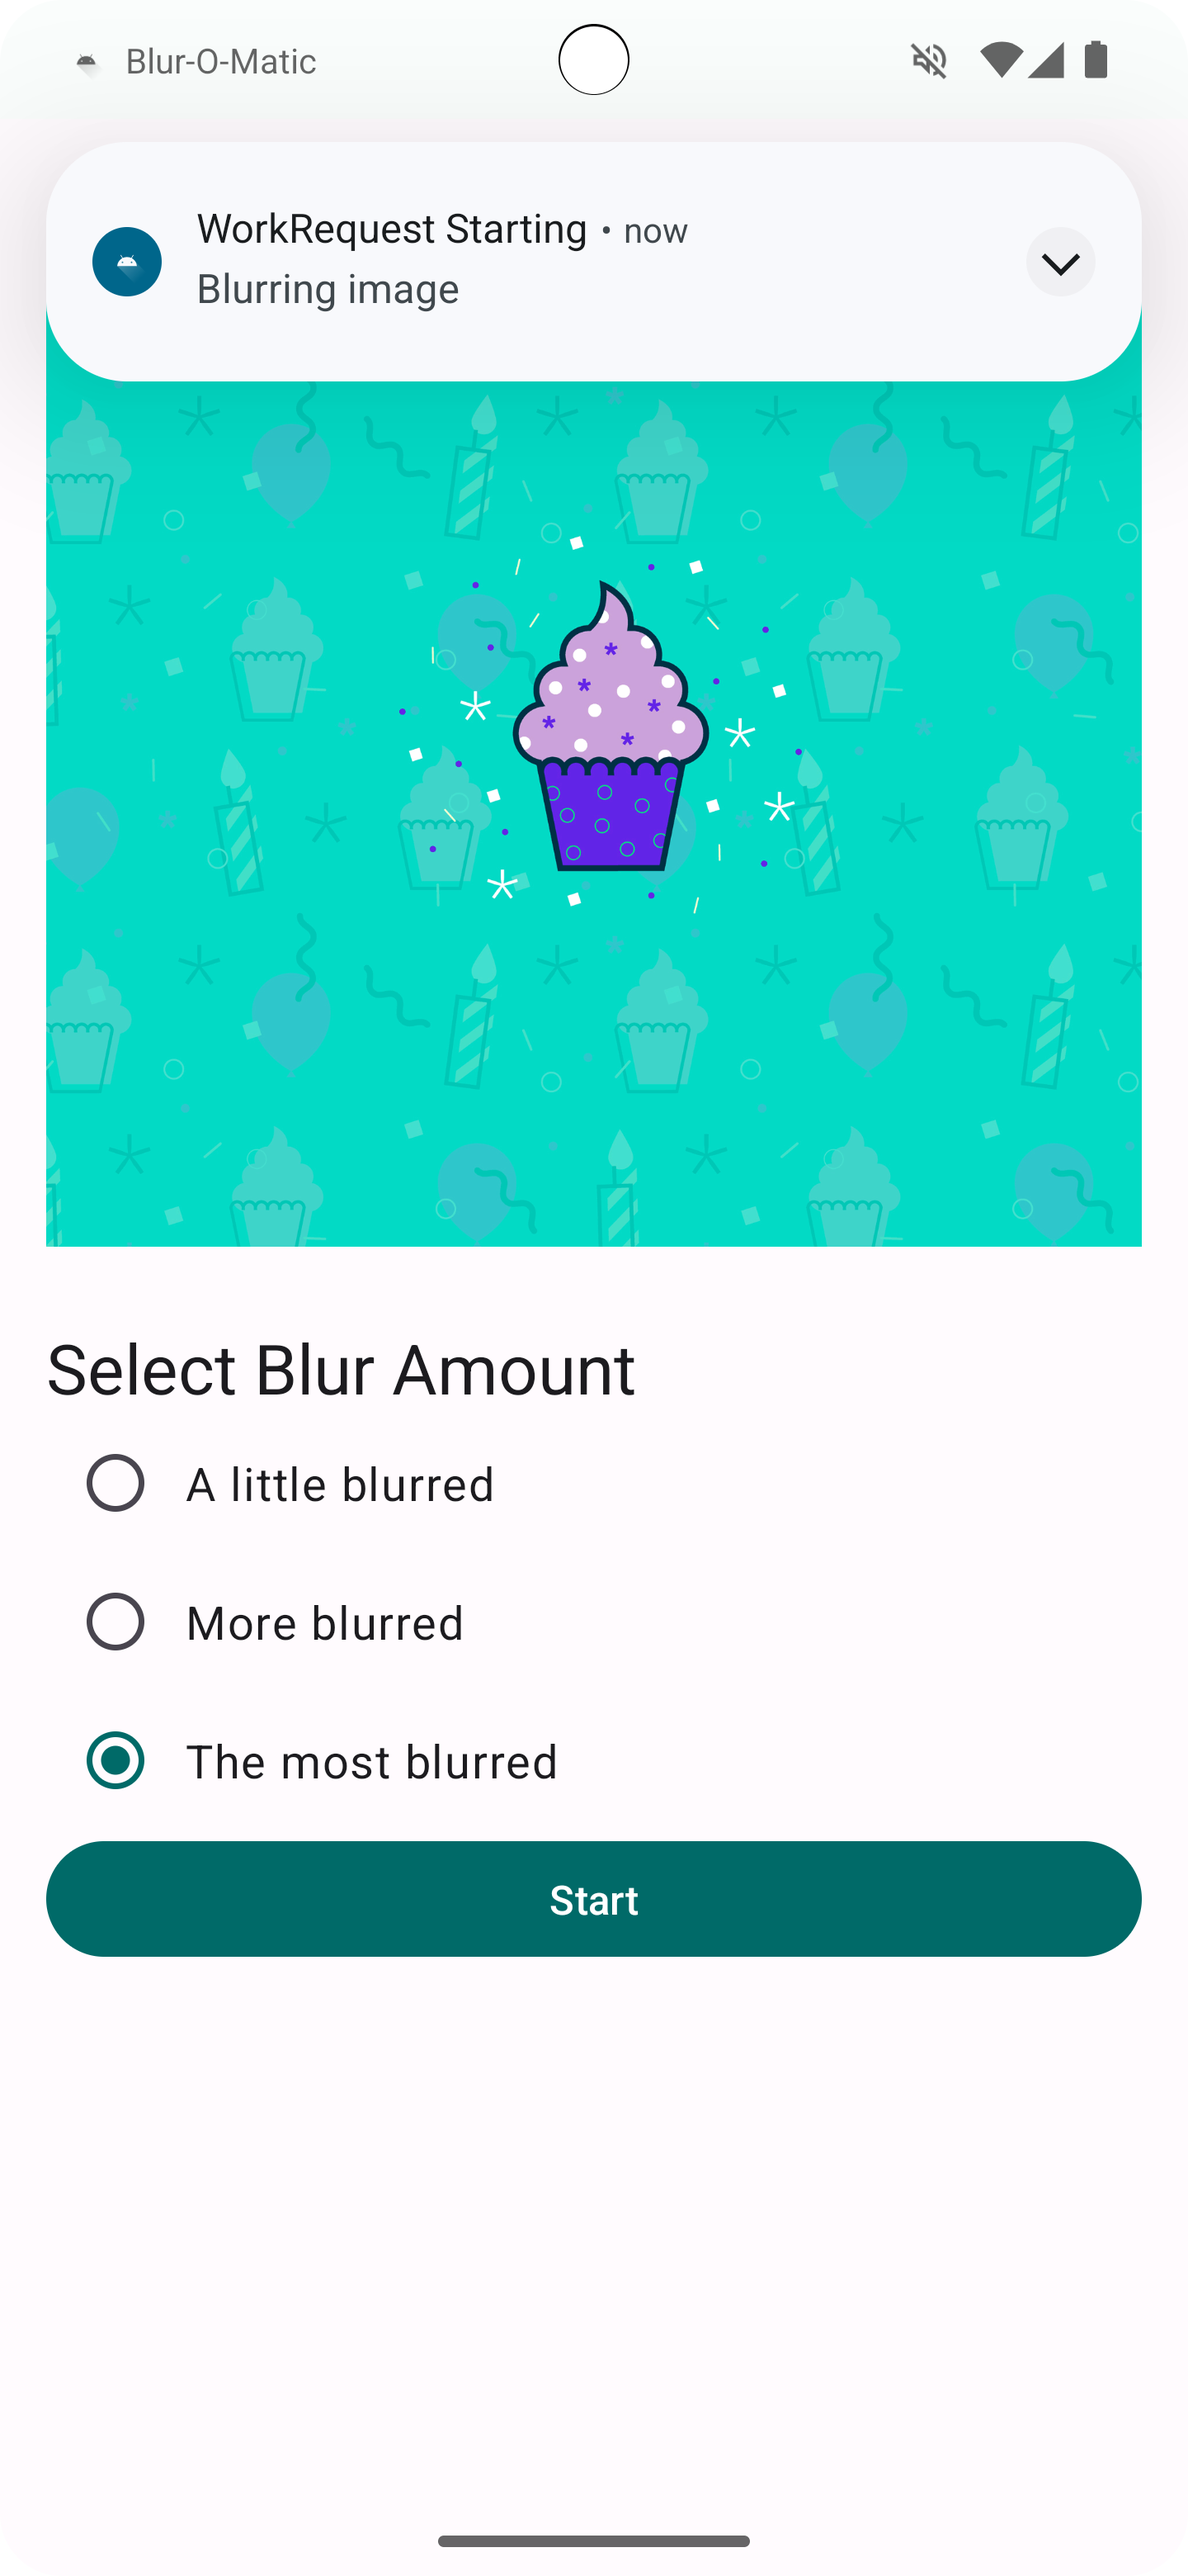
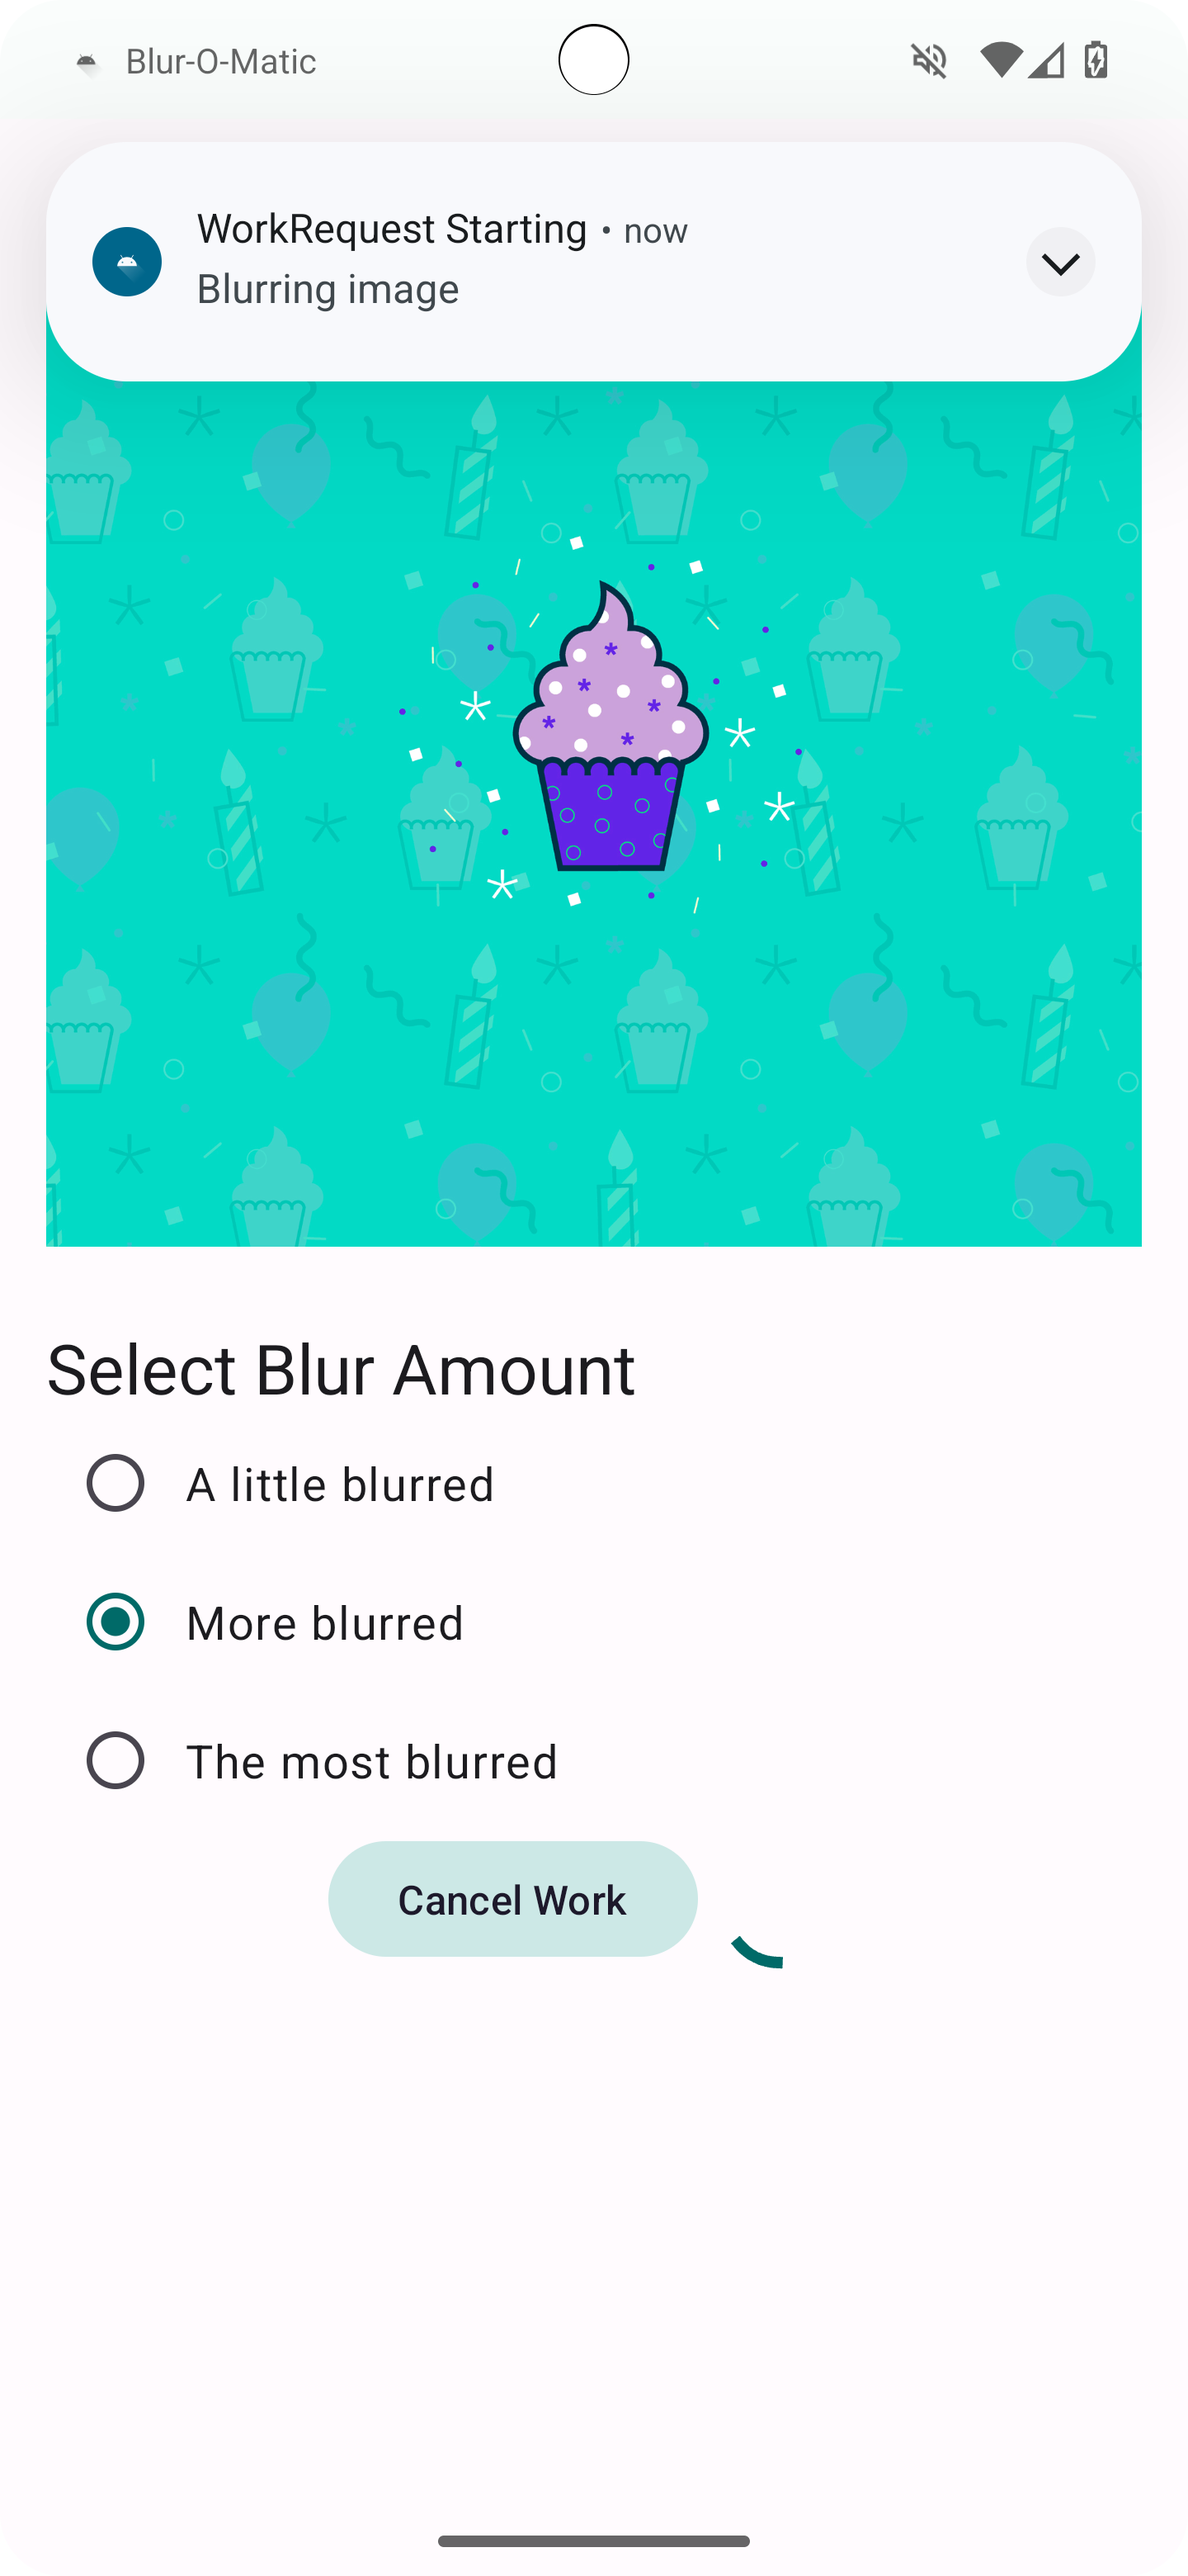
Add cancel worker function, worker constraints, image preview, and test cases

Changed region(s): [[0.0312, 0.6218, 0.9688, 0.7772], [0.9062, 0.0, 0.9375, 0.0311]]

diff --git a/app/src/main/java/com/example/bluromatic/ui/BluromaticScreen.kt b/app/src/main/java/com/example/bluromatic/ui/BluromaticScreen.kt
@@ -23,6 +23,7 @@ import androidx.compose.foundation.Image
 import androidx.compose.foundation.layout.Arrangement
 import androidx.compose.foundation.layout.Column
 import androidx.compose.foundation.layout.Row
+import androidx.compose.foundation.layout.Spacer
 import androidx.compose.foundation.layout.WindowInsets
 import androidx.compose.foundation.layout.asPaddingValues
 import androidx.compose.foundation.layout.calculateEndPadding
@@ -34,11 +35,14 @@ import androidx.compose.foundation.layout.padding
 import androidx.compose.foundation.layout.safeDrawing
 import androidx.compose.foundation.layout.size
 import androidx.compose.foundation.layout.statusBarsPadding
+import androidx.compose.foundation.layout.width
 import androidx.compose.foundation.rememberScrollState
 import androidx.compose.foundation.selection.selectable
 import androidx.compose.foundation.selection.selectableGroup
 import androidx.compose.foundation.verticalScroll
 import androidx.compose.material3.Button
+import androidx.compose.material3.CircularProgressIndicator
+import androidx.compose.material3.FilledTonalButton
 import androidx.compose.material3.MaterialTheme
 import androidx.compose.material3.RadioButton
 import androidx.compose.material3.RadioButtonDefaults
@@ -75,9 +79,11 @@ fun BluromaticScreen(blurViewModel: BlurViewModel = viewModel(factory = BlurView
             .fillMaxSize()
             .statusBarsPadding()
             .padding(
-                start = WindowInsets.safeDrawing.asPaddingValues()
+                start = WindowInsets.safeDrawing
+                    .asPaddingValues()
                     .calculateStartPadding(layoutDirection),
-                end = WindowInsets.safeDrawing.asPaddingValues()
+                end = WindowInsets.safeDrawing
+                    .asPaddingValues()
                     .calculateEndPadding(layoutDirection)
             )
     ) {
@@ -85,7 +91,7 @@ fun BluromaticScreen(blurViewModel: BlurViewModel = viewModel(factory = BlurView
             blurUiState = uiState,
             blurAmountOptions = blurViewModel.blurAmount,
             applyBlur = blurViewModel::applyBlur,
-            cancelWork = {},
+            cancelWork = blurViewModel::cancelWork,
             modifier = Modifier
                 .verticalScroll(rememberScrollState())
                 .padding(dimensionResource(R.dimen.padding_medium))
@@ -121,7 +127,9 @@ fun BluromaticScreenContent(
         BlurActions(
             blurUiState = blurUiState,
             onStartClick = { applyBlur(selectedValue) },
-            onSeeFileClick = {},
+            onSeeFileClick = { currentUri ->
+                showBlurredImage(context, currentUri)
+            },
             onCancelClick = { cancelWork() },
             modifier = Modifier.fillMaxWidth()
         )
@@ -140,11 +148,26 @@ private fun BlurActions(
         modifier = modifier,
         horizontalArrangement = Arrangement.Center
     ) {
-        Button(
-            onClick = onStartClick,
-            modifier = Modifier.fillMaxWidth()
-        ) {
-            Text(stringResource(R.string.start))
+        when (blurUiState) {
+            is BlurUiState.Default -> {
+                Button(
+                    onClick = onStartClick,
+                    modifier = Modifier.fillMaxWidth()
+                ) {
+                    Text(stringResource(R.string.start))
+                }
+            }
+            is BlurUiState.Loading -> {
+                FilledTonalButton(onCancelClick) { Text(stringResource(R.string.cancel_work)) }
+                CircularProgressIndicator(modifier = Modifier.padding(dimensionResource(R.dimen.padding_small)))
+            }
+            is BlurUiState.Complete -> {
+                Button(onStartClick) { Text(stringResource(R.string.start)) }
+                Spacer(modifier = Modifier.width(dimensionResource(R.dimen.padding_small)))
+                FilledTonalButton({ onSeeFileClick(blurUiState.outputUri) }) {
+                    Text(stringResource(R.string.see_file))
+                }
+            }
         }
     }
 }

diff --git a/app/src/main/java/com/example/bluromatic/data/WorkManagerBluromaticRepository.kt b/app/src/main/java/com/example/bluromatic/data/WorkManagerBluromaticRepository.kt
@@ -18,26 +18,35 @@ package com.example.bluromatic.data
 
 import android.content.Context
 import android.net.Uri
+import androidx.lifecycle.asFlow
+import androidx.work.Constraints
 import androidx.work.Data
+import androidx.work.ExistingWorkPolicy
 import androidx.work.OneTimeWorkRequest
 import androidx.work.OneTimeWorkRequestBuilder
 import androidx.work.WorkInfo
 import androidx.work.WorkManager
+import com.example.bluromatic.IMAGE_MANIPULATION_WORK_NAME
 import com.example.bluromatic.KEY_BLUR_LEVEL
 import com.example.bluromatic.KEY_IMAGE_URI
+import com.example.bluromatic.TAG_OUTPUT
 import com.example.bluromatic.getImageUri
 import com.example.bluromatic.workers.BlurWorker
 import com.example.bluromatic.workers.CleanupWorker
 import com.example.bluromatic.workers.SaveImageToFileWorker
 import kotlinx.coroutines.flow.Flow
 import kotlinx.coroutines.flow.MutableStateFlow
+import kotlinx.coroutines.flow.mapNotNull
 
 class WorkManagerBluromaticRepository(context: Context) : BluromaticRepository {
 
     private var imageUri: Uri = context.getImageUri()
     private val workManager = WorkManager.getInstance(context)
 
-    override val outputWorkInfo: Flow<WorkInfo?> = MutableStateFlow(null)
+    override val outputWorkInfo: Flow<WorkInfo> =
+        workManager.getWorkInfosByTagLiveData(TAG_OUTPUT).asFlow().mapNotNull {
+            if (it.isNotEmpty()) it.first() else null
+        }
 
     /**
      * Create the WorkRequests to apply the blur and save the resulting image
@@ -45,18 +54,27 @@ class WorkManagerBluromaticRepository(context: Context) : BluromaticRepository {
      */
     override fun applyBlur(blurLevel: Int) {
         // Add WorkRequest to Cleanup temporary images
-        var continuation = workManager.beginWith(OneTimeWorkRequest.from(CleanupWorker::class.java))
+        var continuation = workManager.beginUniqueWork(
+            IMAGE_MANIPULATION_WORK_NAME,
+            ExistingWorkPolicy.REPLACE,
+            OneTimeWorkRequest.Companion.from(CleanupWorker::class.java)
+        )
+
+        val constraints = Constraints.Builder()
+            .setRequiresBatteryNotLow(true)
+            .build()
 
         // Create WorkRequest to blur the image
         val blurBuilder = OneTimeWorkRequestBuilder<BlurWorker>()
-
-        blurBuilder.setInputData(createInputDataForWorkRequest(blurLevel, imageUri))
+            .setInputData(createInputDataForWorkRequest(blurLevel, imageUri))
+            .setConstraints(constraints)
 
         // Add the blur work request to the chain
         continuation = continuation.then(blurBuilder.build())
 
         // Add WorkRequest to save image to the filesystem
         val save = OneTimeWorkRequestBuilder<SaveImageToFileWorker>()
+            .addTag(TAG_OUTPUT)
             .build()
         continuation = continuation.then(save)
 
@@ -67,7 +85,9 @@ class WorkManagerBluromaticRepository(context: Context) : BluromaticRepository {
     /**
      * Cancel any ongoing WorkRequests
      * */
-    override fun cancelWork() {}
+    override fun cancelWork() {
+        workManager.cancelUniqueWork(IMAGE_MANIPULATION_WORK_NAME)
+    }
 
     /**
      * Creates the input data bundle which includes the blur level to

diff --git a/app/src/androidTest/java/WorkerInstrumentationTest.kt b/app/src/androidTest/java/WorkerInstrumentationTest.kt
@@ -1,0 +1,70 @@
+import android.content.Context
+import androidx.test.core.app.ApplicationProvider
+import androidx.work.Data
+import androidx.work.ListenableWorker
+import androidx.work.testing.TestListenableWorkerBuilder
+import androidx.work.workDataOf
+import com.example.bluromatic.KEY_IMAGE_URI
+import com.example.bluromatic.workers.BlurWorker
+import com.example.bluromatic.workers.CleanupWorker
+import com.example.bluromatic.workers.SaveImageToFileWorker
+import junit.framework.TestCase.assertNotNull
+import junit.framework.TestCase.assertTrue
+import kotlinx.coroutines.runBlocking
+import org.junit.Before
+import org.junit.Test
+
+class WorkerInstrumentationTest {
+    private val mockUriInput = KEY_IMAGE_URI to "android.resource://com.example.bluromatic/drawable/android_cupcake"
+    private lateinit var context: Context
+
+    @Before
+    fun setup() {
+        context = ApplicationProvider.getApplicationContext()
+    }
+
+    @Test
+    fun cleanupWorker_doWork_resultSuccess() {
+        val worker = TestListenableWorkerBuilder<CleanupWorker>(context).build()
+        runBlocking {
+            val result = worker.doWork()
+            assertTrue(result is ListenableWorker.Result.Success)
+        }
+    }
+
+    @Test
+    fun blurWorker_doWork_resultSuccessReturnsUri() {
+        val worker = TestListenableWorkerBuilder<BlurWorker>(context)
+            .setInputData(workDataOf(mockUriInput))
+            .build()
+
+        runBlocking {
+            val result = worker.doWork()
+            val resultUri = result.outputData.getString(mockUriInput.first)
+            assertTrue(result is ListenableWorker.Result.Success)
+            assertTrue(result.outputData.keyValueMap.containsKey(mockUriInput.first))
+            assertTrue(
+                resultUri?.startsWith("file:///data/user/0/com.example.bluromatic/files/blur_filter_outputs/blur-filter-output-")
+                    ?: false
+            )
+        }
+    }
+
+    @Test
+    fun saveImageToFileWorker_doWork_resultSuccessReturnsUrl() {
+        val worker = TestListenableWorkerBuilder<SaveImageToFileWorker>(context)
+            .setInputData(workDataOf(mockUriInput))
+            .build()
+
+        runBlocking {
+            val result = worker.doWork()
+            val resultUri = result.outputData.getString(mockUriInput.first)
+            assertTrue(result is ListenableWorker.Result.Success)
+            assertTrue(result.outputData.keyValueMap.containsKey(mockUriInput.first))
+            assertTrue(
+                resultUri?.startsWith("content://media/external/images/media/")
+                    ?: false
+            )
+        }
+    }
+}

diff --git a/app/src/main/java/com/example/bluromatic/ui/BlurViewModel.kt b/app/src/main/java/com/example/bluromatic/ui/BlurViewModel.kt
@@ -19,13 +19,19 @@ package com.example.bluromatic.ui
 import androidx.lifecycle.ViewModel
 import androidx.lifecycle.ViewModelProvider
 import androidx.lifecycle.ViewModelProvider.AndroidViewModelFactory.Companion.APPLICATION_KEY
+import androidx.lifecycle.viewModelScope
 import androidx.lifecycle.viewmodel.initializer
 import androidx.lifecycle.viewmodel.viewModelFactory
+import androidx.work.WorkInfo
 import com.example.bluromatic.BluromaticApplication
+import com.example.bluromatic.KEY_IMAGE_URI
 import com.example.bluromatic.data.BlurAmountData
 import com.example.bluromatic.data.BluromaticRepository
 import kotlinx.coroutines.flow.MutableStateFlow
+import kotlinx.coroutines.flow.SharingStarted
 import kotlinx.coroutines.flow.StateFlow
+import kotlinx.coroutines.flow.map
+import kotlinx.coroutines.flow.stateIn
 
 /**
  * [BlurViewModel] starts and stops the WorkManger and applies blur to the image. Also updates the
@@ -35,7 +41,23 @@ class BlurViewModel(private val bluromaticRepository: BluromaticRepository) : Vi
 
     internal val blurAmount = BlurAmountData.blurAmount
 
-    val blurUiState: StateFlow<BlurUiState> = MutableStateFlow(BlurUiState.Default)
+    val blurUiState: StateFlow<BlurUiState> = bluromaticRepository.outputWorkInfo
+        .map { info ->
+            val outputImageUri = info.outputData.getString(KEY_IMAGE_URI)
+            when {
+                info.state.isFinished && !outputImageUri.isNullOrEmpty() -> {
+                    BlurUiState.Complete(outputUri = outputImageUri)
+                }
+                info.state == WorkInfo.State.CANCELLED -> {
+                    BlurUiState.Default
+                }
+                else -> BlurUiState.Loading
+            }
+        }.stateIn(
+            scope = viewModelScope,
+            started = SharingStarted.WhileSubscribed(5_000),
+            initialValue = BlurUiState.Default
+        )
 
     /**
      * Call the method from repository to create the WorkRequest to apply the blur
@@ -44,6 +66,13 @@ class BlurViewModel(private val bluromaticRepository: BluromaticRepository) : Vi
      */
     fun applyBlur(blurLevel: Int) {
         bluromaticRepository.applyBlur(blurLevel)
+    }
+
+    /**
+     * Call method from repository to cancel any ongoing WorkRequest
+     */
+    fun cancelWork() {
+        bluromaticRepository.cancelWork()
     }
 
     /**

diff --git a/app/src/main/java/com/example/bluromatic/data/BluromaticRepository.kt b/app/src/main/java/com/example/bluromatic/data/BluromaticRepository.kt
@@ -20,7 +20,7 @@ import androidx.work.WorkInfo
 import kotlinx.coroutines.flow.Flow
 
 interface BluromaticRepository {
-    val outputWorkInfo: Flow<WorkInfo?>
+    val outputWorkInfo: Flow<WorkInfo>
     fun applyBlur(blurLevel: Int)
     fun cancelWork()
 }

diff --git a/README.md b/README.md
@@ -1,10 +1,7 @@
 Blur-O-Matic App
 ===================================
 
-Introduction
-------------
-
-At I/O 2018, Google announced [Android Jetpack](https://developer.android.com/jetpack/), a collection of libraries, tools, and architectural guidance to accelerate and simplify the development of great Android apps. One of those libraries is the [WorkManager library](https://developer.android.com/topic/libraries/architecture/workmanager/). The WorkManager library provides a unified API for deferrable one-off or recurring background tasks that need guaranteed execution. You can learn more by reading the [WorkManager Guide](https://developer.android.com/topic/libraries/architecture/workmanager/), the [WorkManager Reference](https://developer.android.com/reference/androidx/work/package-summary) or doing the [WorkManager Codelab](https://developer.android.com/codelabs/basic-android-kotlin-compose-workmanager).
+At I/O 2018, Google announced [Android Jetpack](https://developer.android.com/jetpack/), a collection of libraries, tools, and architectural guidance to accelerate and simplify the development of great Android apps. One of those libraries is the [WorkManager library](https://developer.android.com/topic/libraries/architecture/workmanager/). The WorkManager library provides a unified API for deferrable one-off or recurring background tasks that need guaranteed execution.
 
 It's developed using Jetpack Compose components like ```Column```, ```Button```, ```Text```, ```Image```, and ```Modifier```.
 
@@ -13,6 +10,8 @@ It's developed using Jetpack Compose components like ```Column```, ```Button```,
   <img src="./asset-docs/demo2.png" width="350px" alt="Screenshot displaying the cleanup worker running.">
   <img src="./asset-docs/demo3.png" width="350px" alt="Screenshot displaying the blur worker running.">
   <img src="./asset-docs/demo4.png" width="350px" alt="Screenshot displaying the save worker running.">
+  <img src="./asset-docs/demo5.png" width="350px" alt="Screenshot displaying the save worker running.">
+  <img src="./asset-docs/demo6.png" width="350px" alt="Screenshot displaying the save worker running.">
 </p>
 
 Getting Started
